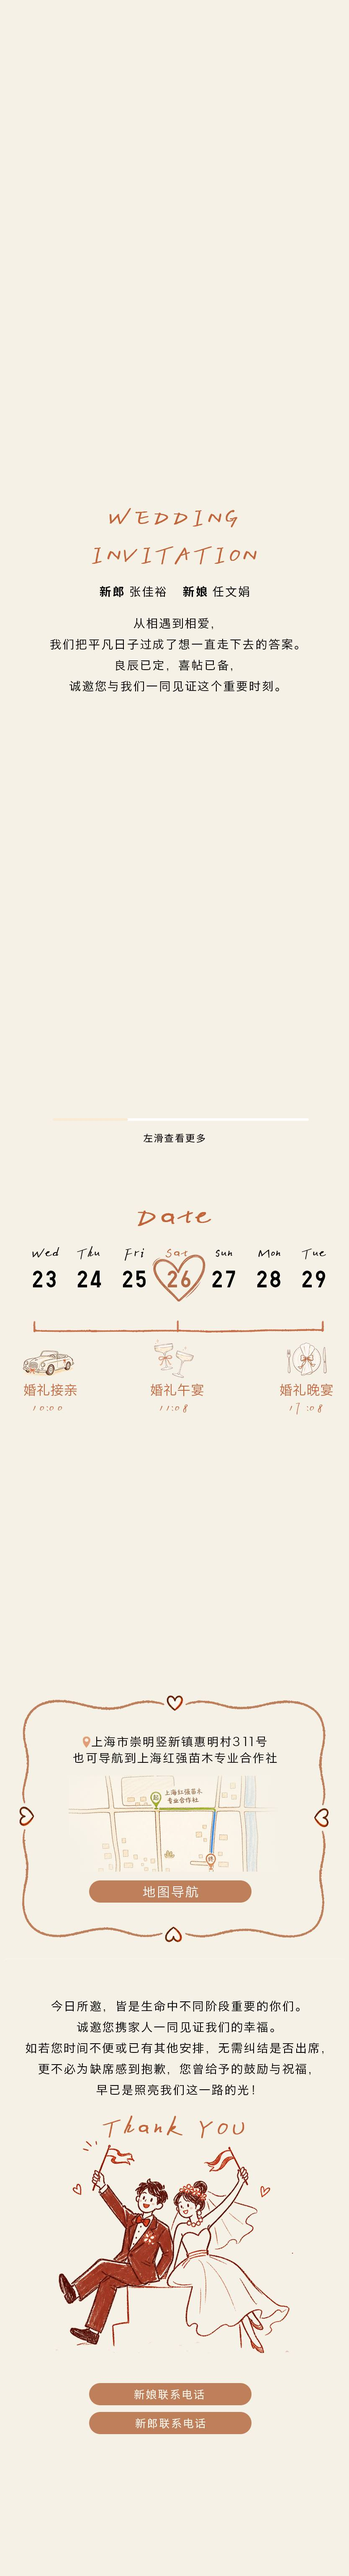
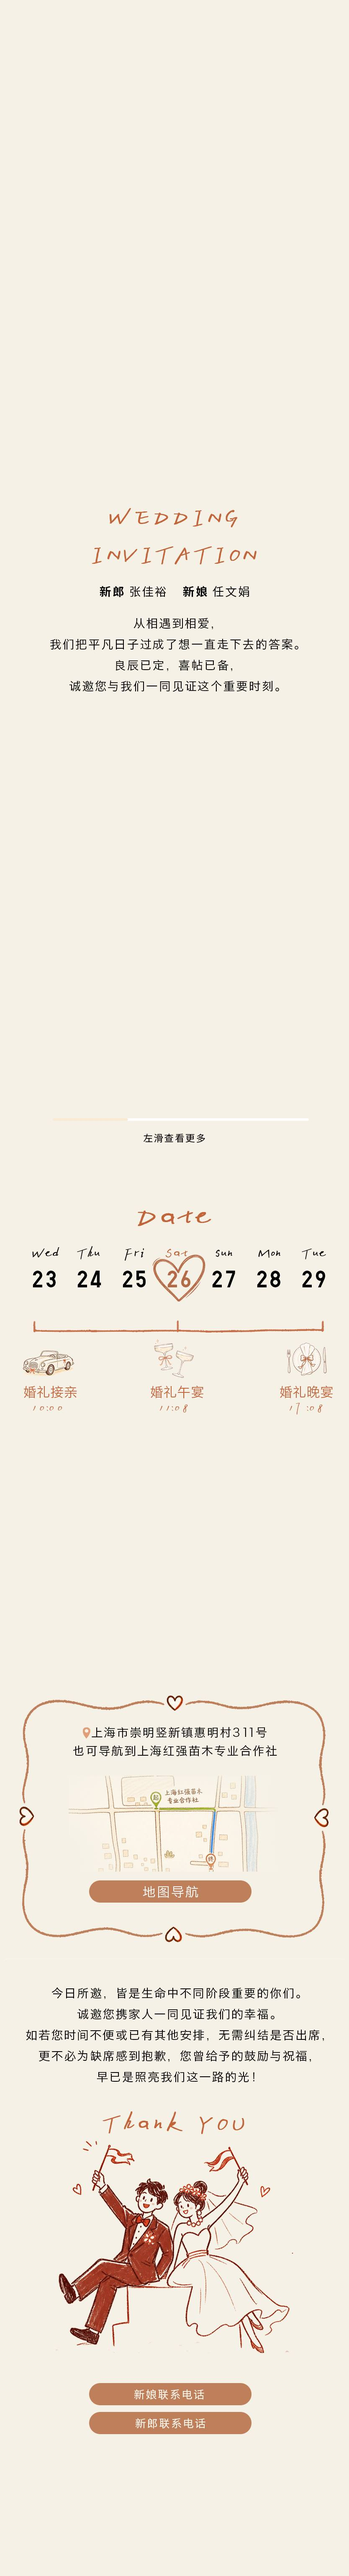
Update invitation map confirmed background

Changed region(s): [[0.0935, 0.7487, 0.9041, 0.8422], [0.2182, 0.6551, 0.7794, 0.6863], [0.9041, 0.5303, 0.9353, 0.5615]]

diff --git a/index.html b/index.html
@@ -23,8 +23,8 @@
     <meta name="twitter:image" content="https://610166903.github.io/hunli/share-cover.jpg?v=20260814-share-card-v2">
     <link rel="image_src" href="https://610166903.github.io/hunli/share-cover.jpg?v=20260814-share-card-v2">
     <link rel="preload" href="layer-6-mobile.mp4" as="video" type="video/mp4">
-    <link rel="preload" href="invitation-8-14-lite.jpg?v=20260818-bg-color2-v1" as="image">
-    <link rel="stylesheet" href="styles.css?v=20260818-bg-color2-v1">
+    <link rel="preload" href="invitation-8-14-lite.jpg?v=20260818-map-confirm-v1" as="image">
+    <link rel="stylesheet" href="styles.css?v=20260818-map-confirm-v1">
   </head>
   <body>
     <button class="music-toggle" type="button" aria-label="播放音乐" aria-pressed="false">
@@ -33,7 +33,7 @@
     <audio id="bgMusic" src="music-trim3.m4a" loop preload="metadata" autoplay></audio>
     <main class="page">
       <div class="image-wrap">
-        <img class="invitation" src="invitation-8-14-lite.jpg?v=20260818-bg-color2-v1" alt="婚礼邀请函" fetchpriority="high">
+        <img class="invitation" src="invitation-8-14-lite.jpg?v=20260818-map-confirm-v1" alt="婚礼邀请函" fetchpriority="high">
         <video
           class="intro-video"
           src="layer-6-mobile.mp4"
@@ -104,6 +104,6 @@
       <img class="lightbox-image" src="gallery-1-optimized.jpg" alt="相册照片预览" loading="lazy" decoding="async">
       <button class="lightbox-nav lightbox-next" type="button" aria-label="下一张照片">›</button>
     </div>
-    <script src="app.js?v=20260818-bg-color2-v1"></script>
+    <script src="app.js?v=20260818-map-confirm-v1"></script>
   </body>
 </html>

diff --git a/share.html b/share.html
@@ -23,8 +23,8 @@
     <meta name="twitter:image" content="https://610166903.github.io/hunli/share-cover.jpg?v=20260814-share-card-v2">
     <link rel="image_src" href="https://610166903.github.io/hunli/share-cover.jpg?v=20260814-share-card-v2">
     <link rel="preload" href="layer-6-mobile.mp4" as="video" type="video/mp4">
-    <link rel="preload" href="invitation-8-14-lite.jpg?v=20260818-bg-color2-v1" as="image">
-    <link rel="stylesheet" href="styles.css?v=20260818-bg-color2-v1">
+    <link rel="preload" href="invitation-8-14-lite.jpg?v=20260818-map-confirm-v1" as="image">
+    <link rel="stylesheet" href="styles.css?v=20260818-map-confirm-v1">
   </head>
   <body>
     <button class="music-toggle" type="button" aria-label="播放音乐" aria-pressed="false">
@@ -33,7 +33,7 @@
     <audio id="bgMusic" src="music-trim3.m4a" loop preload="metadata" autoplay></audio>
     <main class="page">
       <div class="image-wrap">
-        <img class="invitation" src="invitation-8-14-lite.jpg?v=20260818-bg-color2-v1" alt="婚礼邀请函" fetchpriority="high">
+        <img class="invitation" src="invitation-8-14-lite.jpg?v=20260818-map-confirm-v1" alt="婚礼邀请函" fetchpriority="high">
         <video
           class="intro-video"
           src="layer-6-mobile.mp4"
@@ -104,6 +104,6 @@
       <img class="lightbox-image" src="gallery-1-optimized.jpg" alt="相册照片预览" loading="lazy" decoding="async">
       <button class="lightbox-nav lightbox-next" type="button" aria-label="下一张照片">›</button>
     </div>
-    <script src="app.js?v=20260818-bg-color2-v1"></script>
+    <script src="app.js?v=20260818-map-confirm-v1"></script>
   </body>
 </html>
